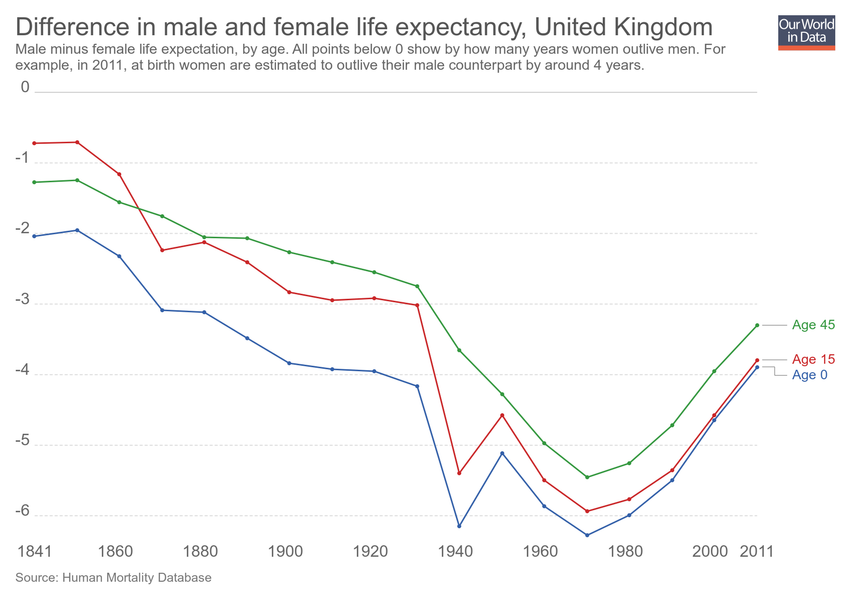
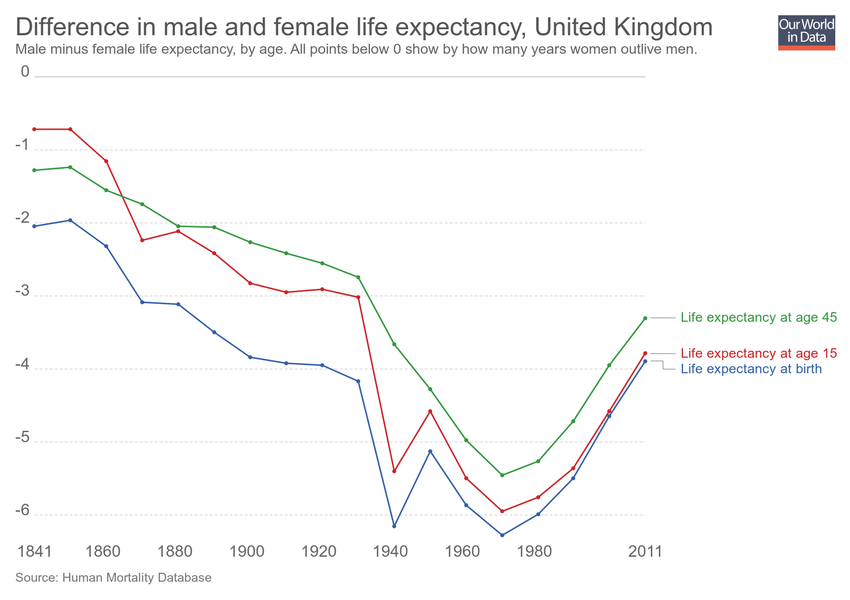
Updating chart difference-in-male-and-female-life-expectancy

diff --git a/grapher/difference-in-male-and-female-life-expectancy.html b/grapher/difference-in-male-and-female-life-expectancy.html
@@ -1,4 +1,4 @@
-<!doctype html><html><head><meta name="viewport" content="width=device-width, initial-scale=1" /><title>Difference in male and female life expectancy - Our World in Data</title><meta name="description" content="Male minus female life expectation, by age. All points below 0 show by how many years women outlive men. For example, in 2011, at birth women are estimated to outlive their male counterpart by around 4 years." /><link rel="canonical" href="https://ourworldindata.org/grapher/difference-in-male-and-female-life-expectancy" /><meta property="fb:app_id" content="1149943818390250" /><meta property="og:url" content="https://ourworldindata.org/grapher/difference-in-male-and-female-life-expectancy" /><meta property="og:title" content="Difference in male and female life expectancy" /><meta property="og:description" content="Male minus female life expectation, by age. All points below 0 show by how many years women outlive men. For example, in 2011, at birth women are estimated to outlive their male counterpart by around 4 years." /><meta property="og:image" content="https://ourworldindata.org/grapher/exports/difference-in-male-and-female-life-expectancy.png?v=4" /><meta property="og:image:width" content="850" /><meta property="og:image:height" content="600" /><meta property="og:site_name" content="Our World in Data" /><meta name="twitter:card" content="summary_large_image" /><meta name="twitter:site" content="@OurWorldInData" /><meta name="twitter:creator" content="@OurWorldInData" /><meta name="twitter:title" content="Difference in male and female life expectancy" /><meta name="twitter:description" content="Male minus female life expectation, by age. All points below 0 show by how many years women outlive men. For example, in 2011, at birth women are estimated to outlive their male counterpart by around 4 years." /><meta name="twitter:image" content="https://ourworldindata.org/grapher/exports/difference-in-male-and-female-life-expectancy.png?v=4" /><style>
+<!doctype html><html><head><meta name="viewport" content="width=device-width, initial-scale=1" /><title>Difference in male and female life expectancy - Our World in Data</title><meta name="description" content="Male minus female life expectancy, by age. All points below 0 show by how many years women outlive men." /><link rel="canonical" href="https://ourworldindata.org/grapher/difference-in-male-and-female-life-expectancy" /><meta property="fb:app_id" content="1149943818390250" /><meta property="og:url" content="https://ourworldindata.org/grapher/difference-in-male-and-female-life-expectancy" /><meta property="og:title" content="Difference in male and female life expectancy" /><meta property="og:description" content="Male minus female life expectancy, by age. All points below 0 show by how many years women outlive men." /><meta property="og:image" content="https://ourworldindata.org/grapher/exports/difference-in-male-and-female-life-expectancy.png?v=7" /><meta property="og:image:width" content="850" /><meta property="og:image:height" content="600" /><meta property="og:site_name" content="Our World in Data" /><meta name="twitter:card" content="summary_large_image" /><meta name="twitter:site" content="@OurWorldInData" /><meta name="twitter:creator" content="@OurWorldInData" /><meta name="twitter:title" content="Difference in male and female life expectancy" /><meta name="twitter:description" content="Male minus female life expectancy, by age. All points below 0 show by how many years women outlive men." /><meta name="twitter:image" content="https://ourworldindata.org/grapher/exports/difference-in-male-and-female-life-expectancy.png?v=7" /><style>
         html, body {
             height: 100%;
             margin: 0;
@@ -20,8 +20,8 @@
         }
     </style><noscript><style>
                     figure { display: none !important; }
-                </style></noscript><link rel="stylesheet" href="https://ourworldindata.org/grapher/assets/commons.bundle.0cade97703a5a10acaac.css" /><link rel="preload" href="/grapher/data/variables/97757+97755+97756.json?v=4" as="fetch" crossorigin /></head><body class="singleChart"><figure data-grapher-src="/grapher/difference-in-male-and-female-life-expectancy"></figure><noscript id="fallback"><img src="/grapher/exports/difference-in-male-and-female-life-expectancy.svg" /><p>Interactive visualization requires JavaScript</p></noscript><script src="https://cdn.polyfill.io/v2/polyfill.min.js?features=es6,fetch"></script><script src="https://ourworldindata.org/grapher/assets/commons.bundle.0cade97703a5a10acaac.js"></script><script src="https://ourworldindata.org/grapher/assets/charts.bundle.0cade97703a5a10acaac.js"></script><script>
-        var jsonConfig = {"id":2935,"map":{"projection":"World","colorSchemeLabels":[],"colorSchemeValues":[],"customNumericColors":[],"customCategoryColors":{},"customCategoryLabels":{},"customHiddenCategories":{}},"tab":"chart","slug":"difference-in-male-and-female-life-expectancy","type":"LineChart","title":"Difference in male and female life expectancy","xAxis":{"scaleType":"linear"},"yAxis":{"max":0,"scaleType":"linear"},"version":4,"subtitle":"Male minus female life expectation, by age. All points below 0 show by how many years women outlive men. For example, in 2011, at birth women are estimated to outlive their male counterpart by around 4 years.","hasMapTab":false,"stackMode":"absolute","dimensions":[{"display":{"name":"Age 45"},"property":"y","variableId":97757},{"display":{"name":"Age 0","shortUnit":""},"property":"y","variableId":97755},{"display":{"name":"Age 15"},"property":"y","variableId":97756}],"isAutoSlug":true,"hasChartTab":true,"isPublished":true,"selectedData":[{"index":1,"entityId":1},{"index":2,"entityId":1},{"index":0,"entityId":1}],"addCountryMode":"change-country"};
+                </style></noscript><link rel="stylesheet" href="https://ourworldindata.org/grapher/assets/commons.bundle.0cade97703a5a10acaac.css" /><link rel="preload" href="/grapher/data/variables/97757+97755+97756.json?v=7" as="fetch" crossorigin /></head><body class="singleChart"><figure data-grapher-src="/grapher/difference-in-male-and-female-life-expectancy"></figure><noscript id="fallback"><img src="/grapher/exports/difference-in-male-and-female-life-expectancy.svg" /><p>Interactive visualization requires JavaScript</p></noscript><script src="https://cdn.polyfill.io/v2/polyfill.min.js?features=es6,fetch"></script><script src="https://ourworldindata.org/grapher/assets/commons.bundle.0cade97703a5a10acaac.js"></script><script src="https://ourworldindata.org/grapher/assets/charts.bundle.0cade97703a5a10acaac.js"></script><script>
+        var jsonConfig = {"id":2935,"map":{"projection":"World","colorSchemeLabels":[],"colorSchemeValues":[],"customNumericColors":[],"customCategoryColors":{},"customCategoryLabels":{},"customHiddenCategories":{}},"tab":"chart","slug":"difference-in-male-and-female-life-expectancy","type":"LineChart","title":"Difference in male and female life expectancy","xAxis":{"scaleType":"linear"},"yAxis":{"max":0,"scaleType":"linear"},"version":7,"subtitle":"Male minus female life expectancy, by age. All points below 0 show by how many years women outlive men.","hasMapTab":false,"stackMode":"absolute","dimensions":[{"display":{"name":"Life expectancy at age 45"},"property":"y","variableId":97757},{"display":{"name":"Life expectancy at birth","shortUnit":""},"property":"y","variableId":97755},{"display":{"name":"Life expectancy at age 15"},"property":"y","variableId":97756}],"hasChartTab":true,"isPublished":true,"selectedData":[{"index":1,"entityId":1},{"index":2,"entityId":1},{"index":0,"entityId":1}],"addCountryMode":"change-country"};
         var figure = document.getElementsByTagName("figure")[0];
         try {
             window.App = {};
